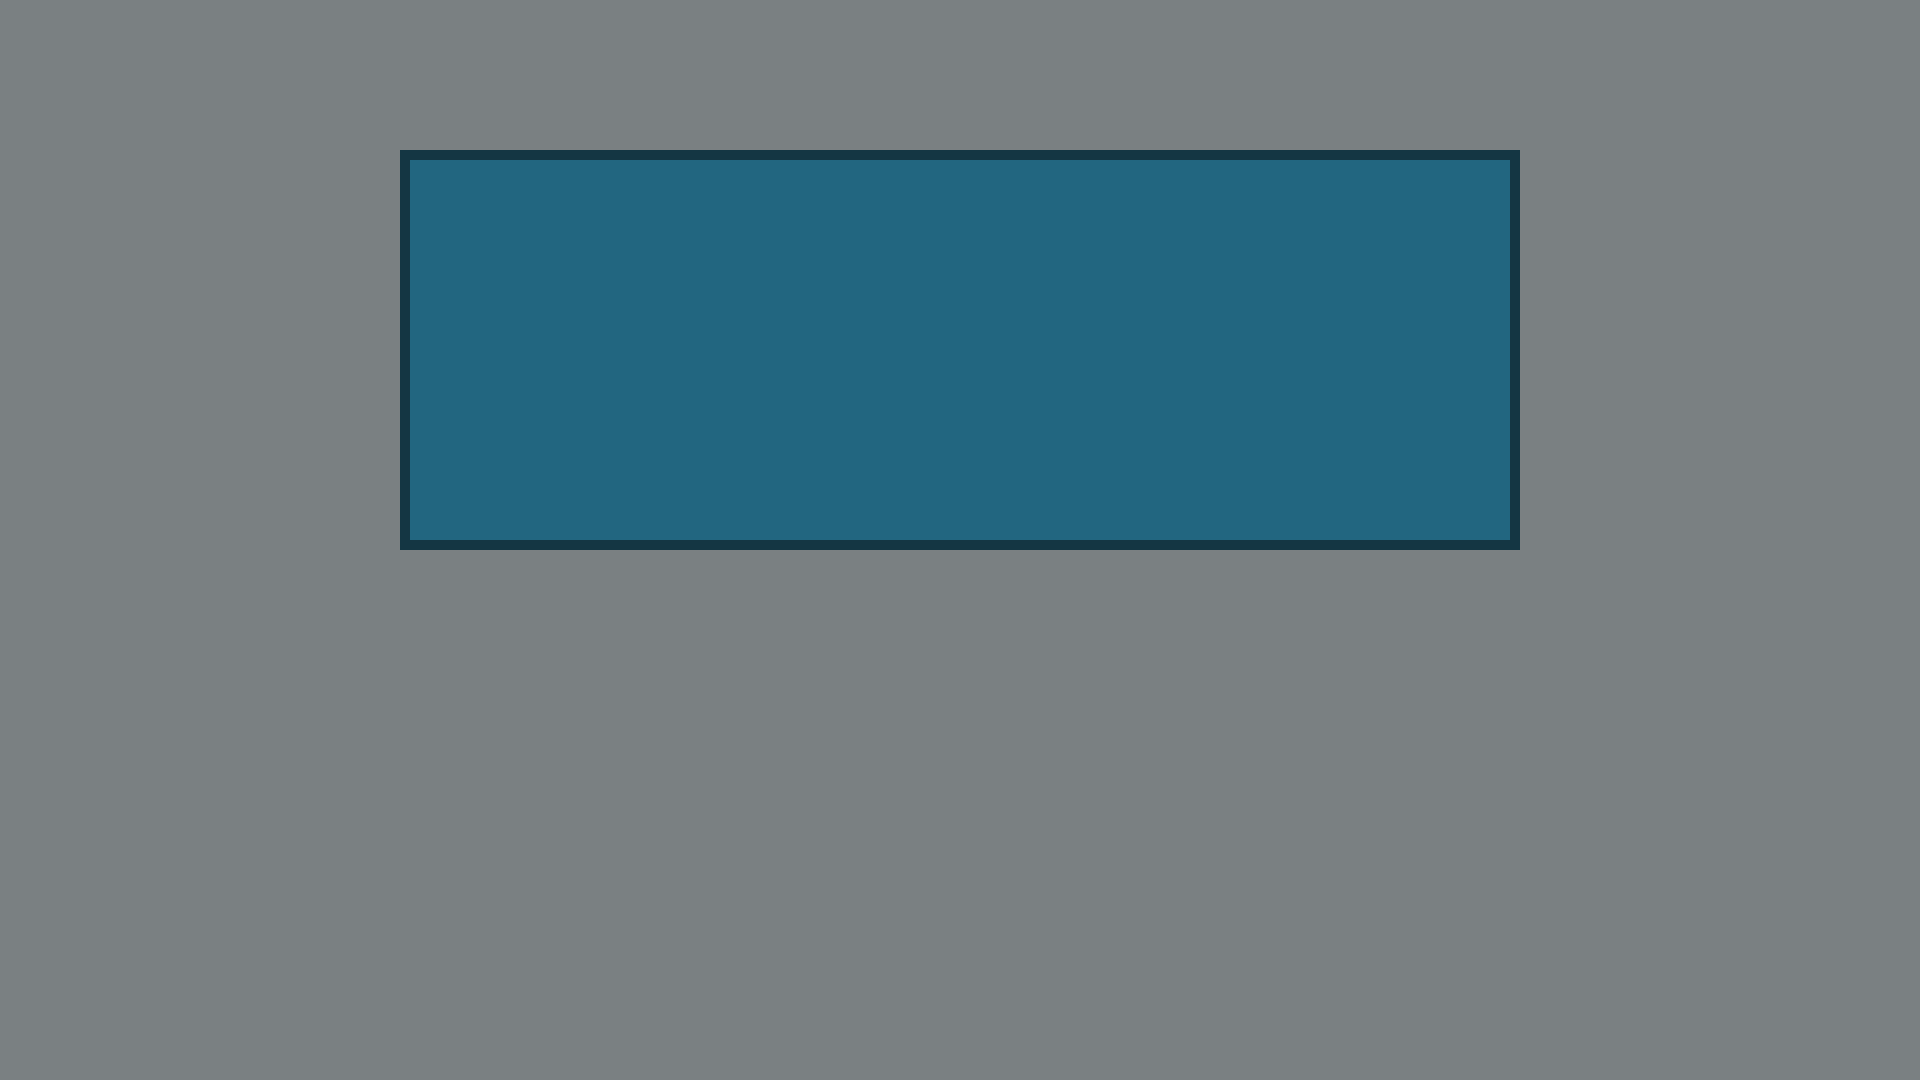
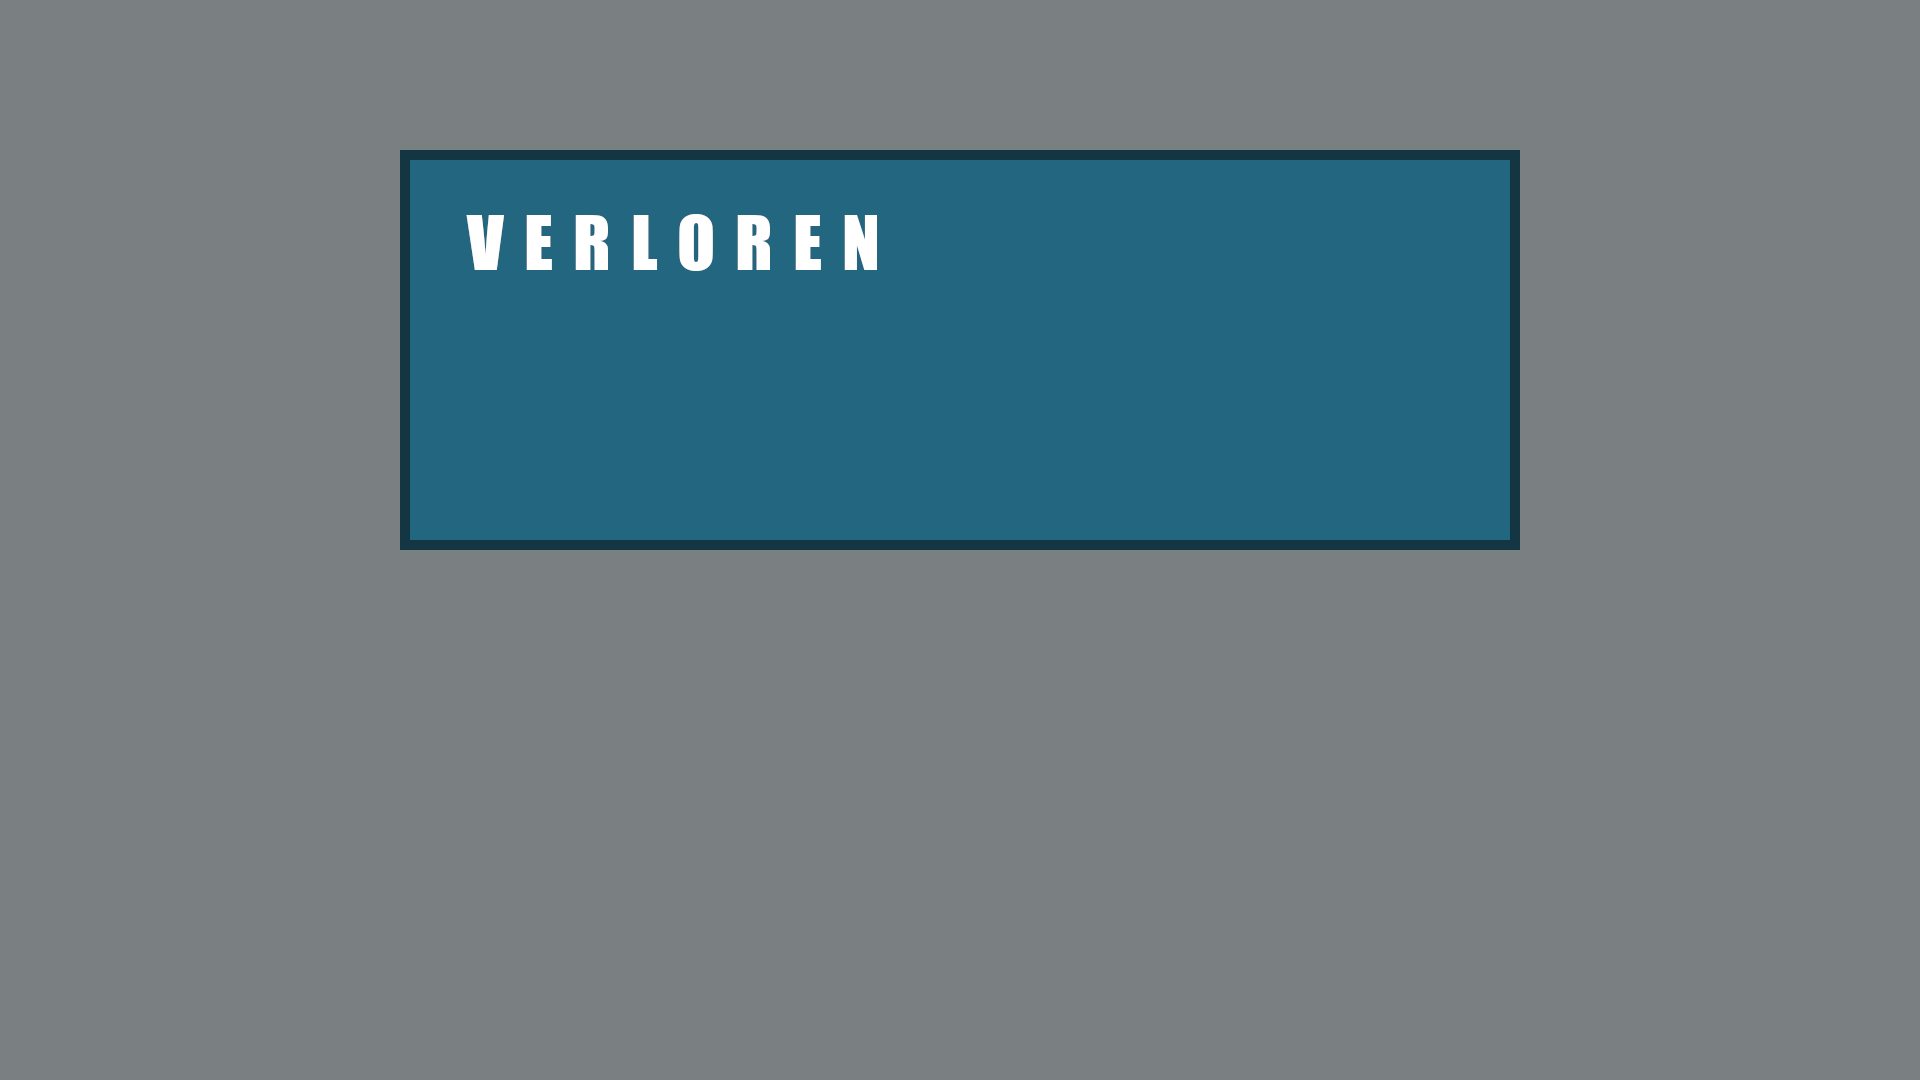
grafische Verbesserungen

Changed region(s): [[0.2188, 0.1833, 0.4688, 0.275]]

diff --git a/src/ERGEBNISMENUE.java b/src/ERGEBNISMENUE.java
@@ -7,6 +7,9 @@ class ERGEBNISMENUE implements UIOBJEKT
 	TASTER erneut;
 	int ergebnisse[];
 	TASTER ok;
+	TEXTFELD welle;
+	TEXTFELD geldGesamt;
+	TEXTFELD gegnerGetoetet;
 	
 	KARTENAUSWAHL kartenauswahl;
 	double x;
@@ -17,6 +20,9 @@ class ERGEBNISMENUE implements UIOBJEKT
 		position = new VEKTOR(-960, 540);
 		hintergrund = new BILD("grafiken/ergebnismenue/hintergrund.png", position, 0, 7);
 		ok = new TASTER("grafiken/ergebnismenue/ok1.png", "grafiken/ergebnismenue/ok2.png", "grafiken/ergebnismenue/ok3.png", position.plus(new VEKTOR(0, 300)), this, "ok", 8);
+		welle = new TEXTFELD("", new VEKTOR(-500, -240), 50, 8);
+		geldGesamt = new TEXTFELD("", new VEKTOR(-500, -170), 50, 8);
+		gegnerGetoetet = new TEXTFELD("", new VEKTOR(-500, -100), 50, 8);
 		this.kartenauswahl = kartenauswahl;
 		x = 0;
 	}
@@ -27,6 +33,9 @@ class ERGEBNISMENUE implements UIOBJEKT
 		this.position = position;
 		hintergrund.positionSetzen(position);
 		ok.positionSetzen(position.plus(new VEKTOR(0, 300)));
+		welle.positionSetzen(position.plus(new VEKTOR(-500, -240)));
+		geldGesamt.positionSetzen(position.plus(new VEKTOR(-500, -170)));
+		gegnerGetoetet.positionSetzen(position.plus(new VEKTOR(-500, -100)));
 	}
 	
 	//wird beim Druecken eines Tasters ausgefuehrt
